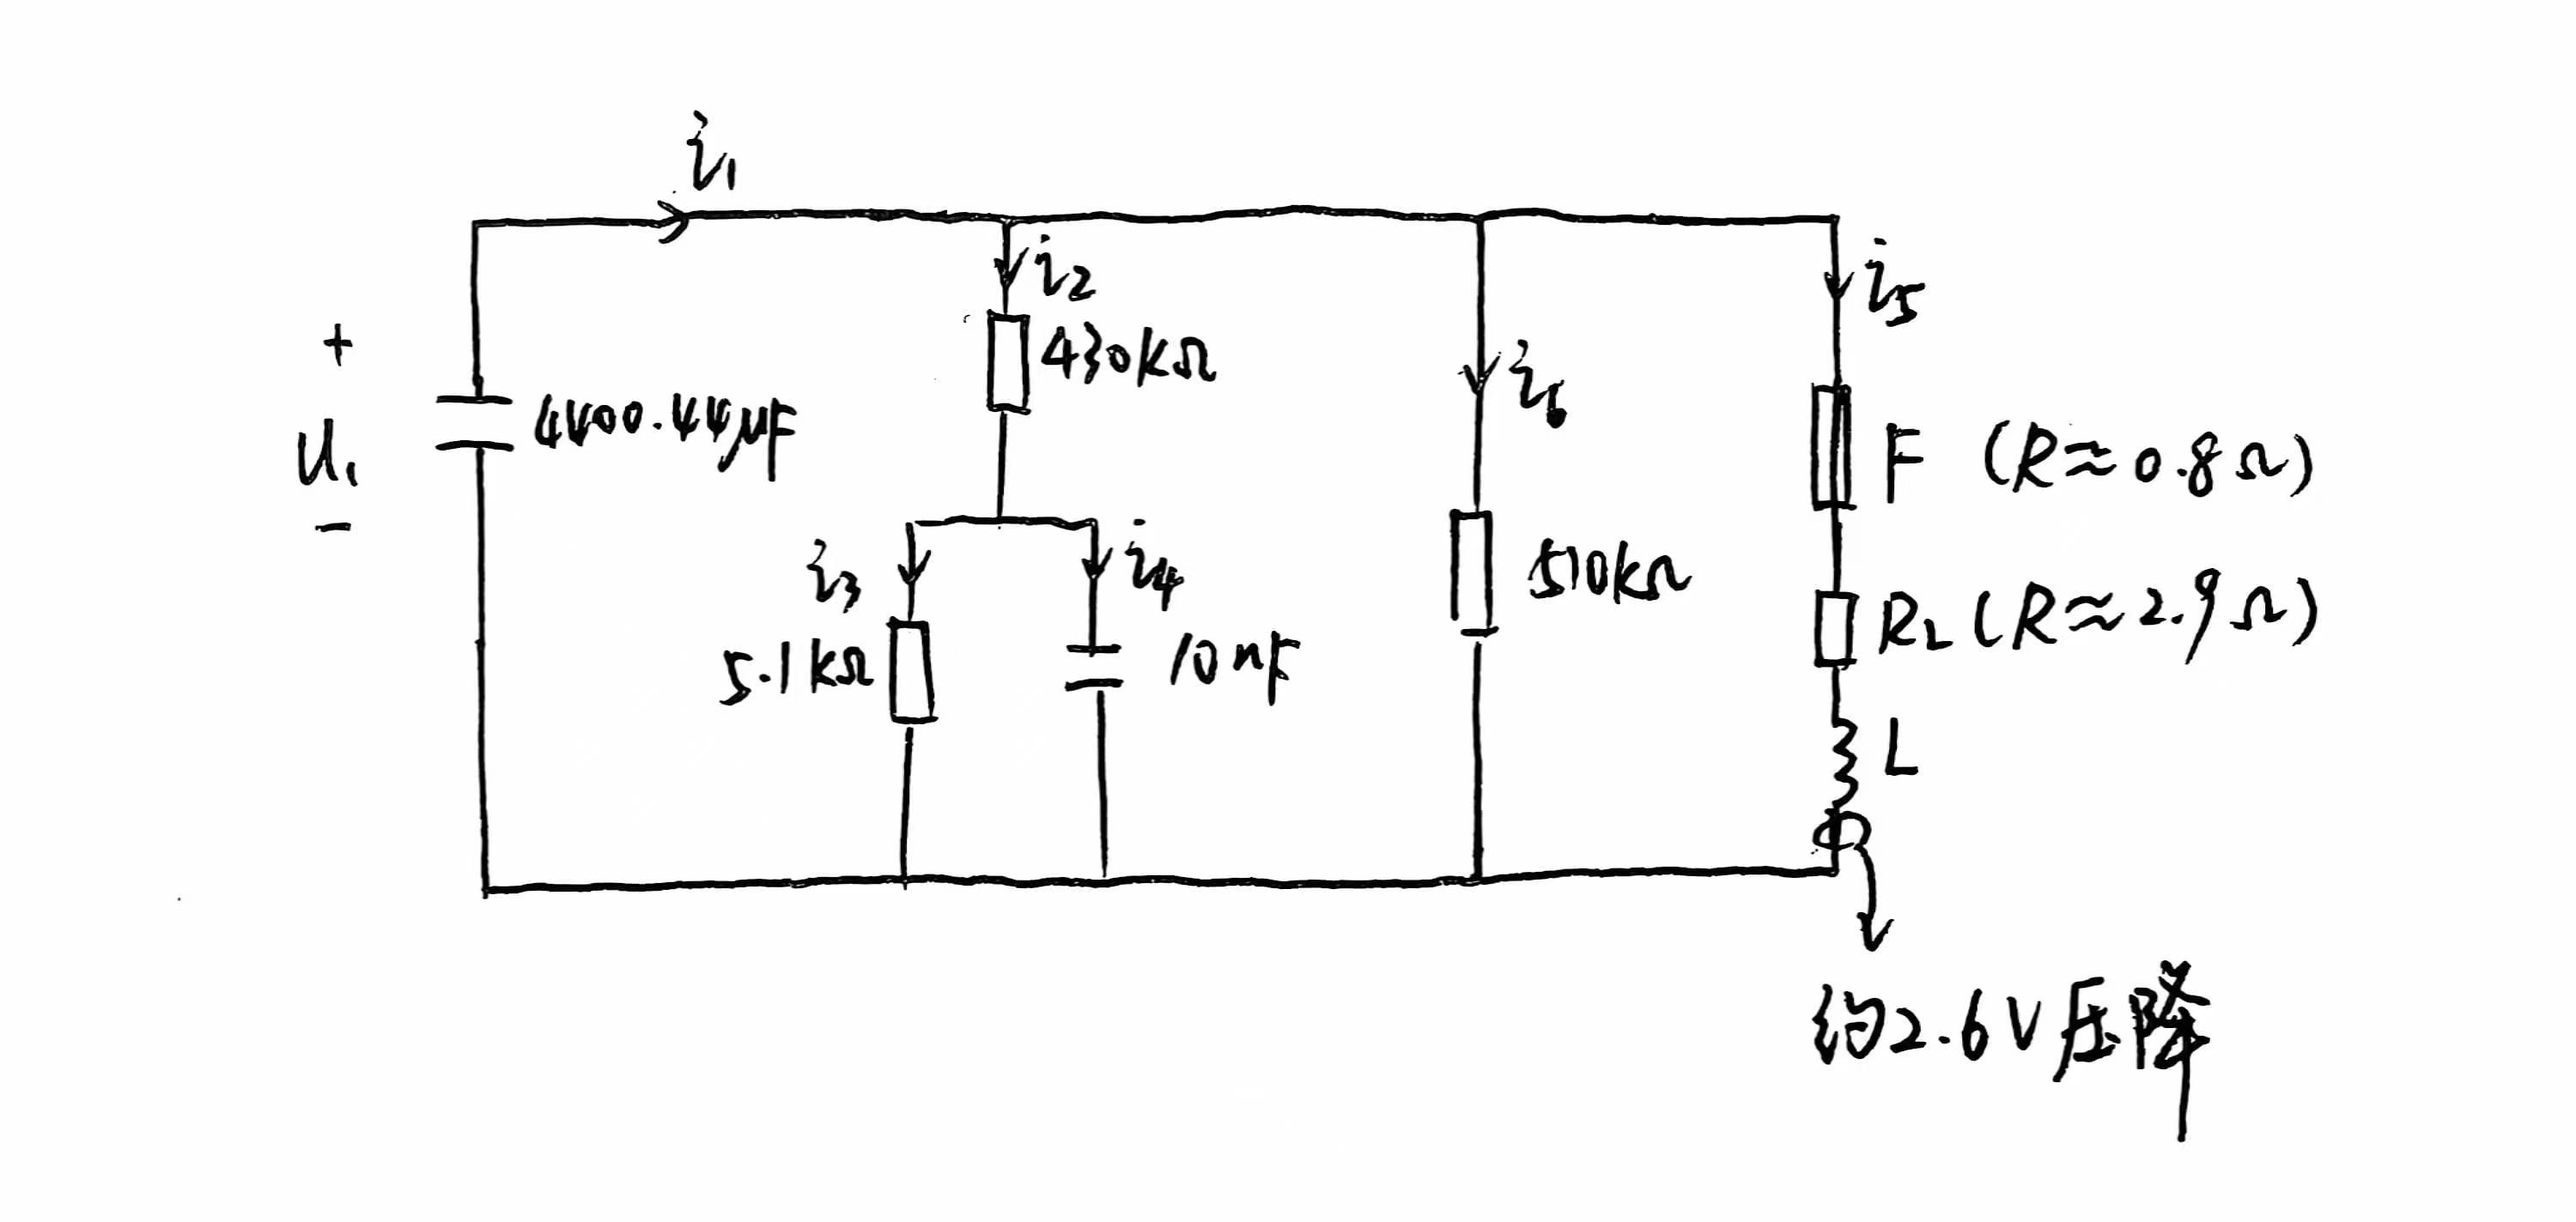
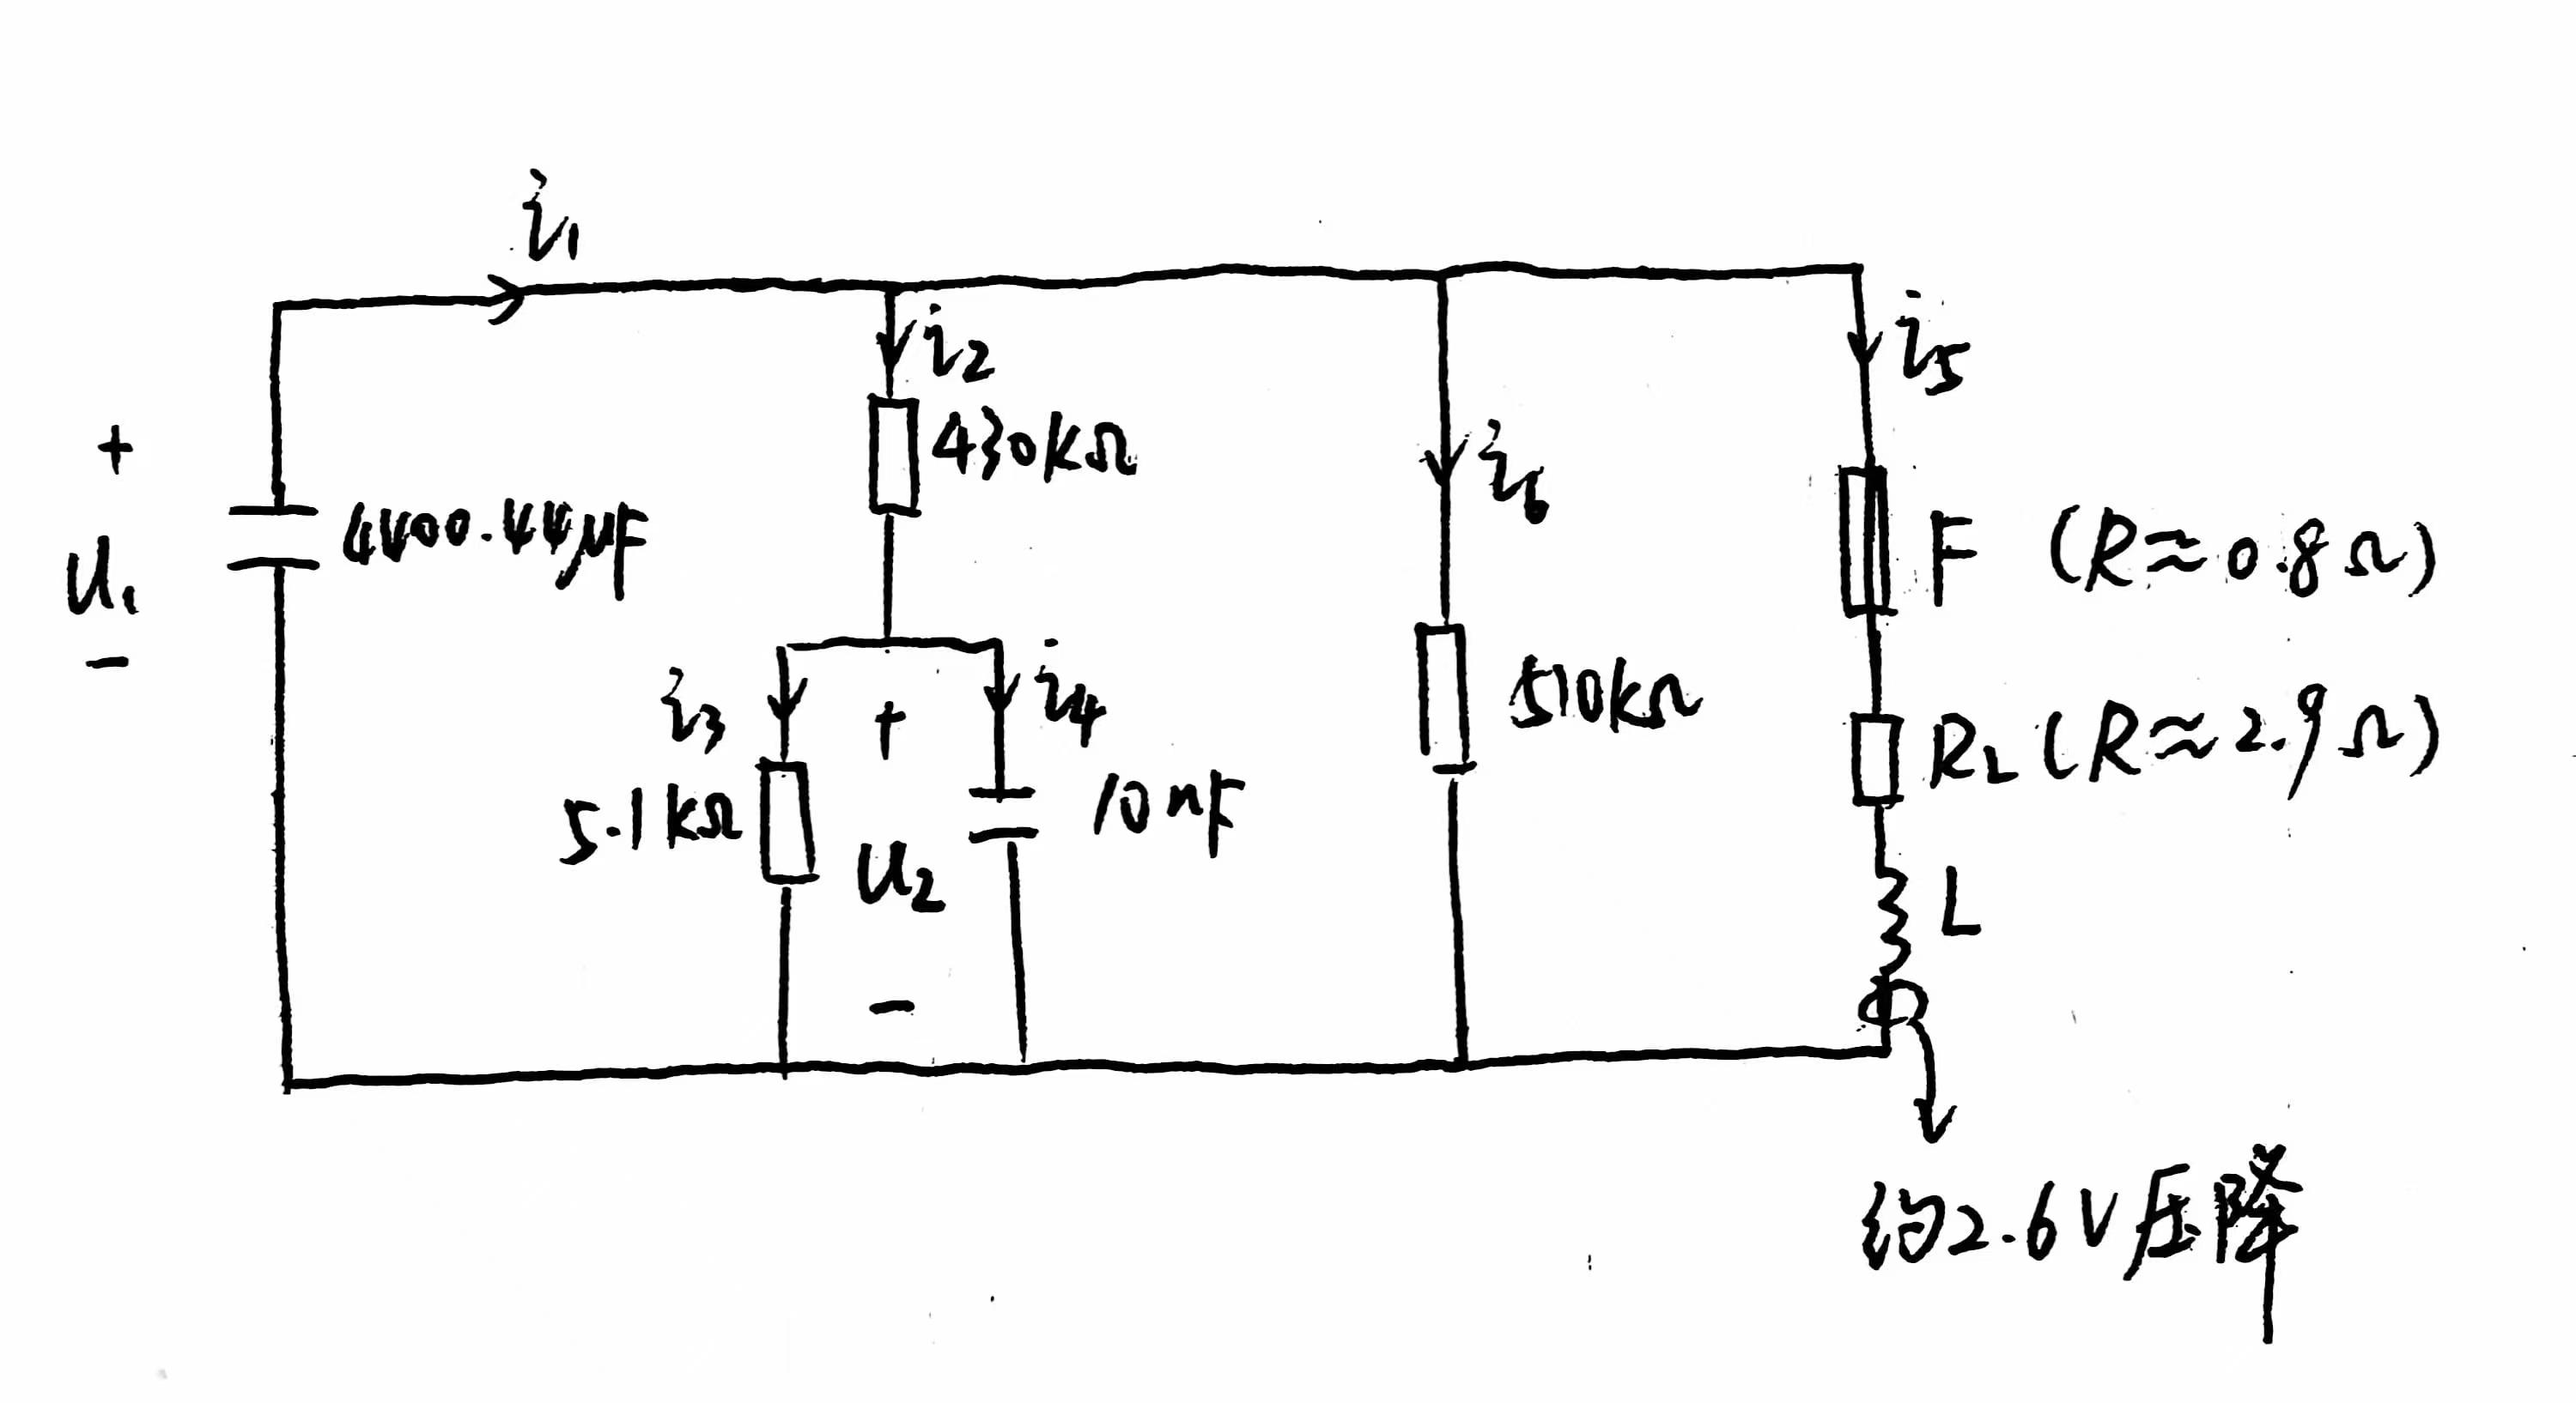
change model

diff --git a/readme.md b/readme.md
@@ -102,4 +102,20 @@
 
 ## 五、电磁铁放电的电路模型
 
-为进一步了解电磁铁放电时的工作状态，特建立以下电路模型来描述电磁铁放电时的响应：
+为进一步了解电磁铁放电时的工作状态，特建立以下电路模型来描述电磁铁放电时的响应。其中，电磁铁等效为电感模型，通过阻抗法进行测量，老电磁铁电感值为 $0.0175H$，万用表测量得其电阻为 $2.9\Omega$
+
+<div align="center">
+    <img src="https://github.com/Gnitnaux/POWBRD/blob/master/%E6%94%BE%E7%94%B5%E7%94%B5%E8%B7%AF%E6%A8%A1%E5%9E%8B.jpg?raw=true" alt="踢球电路" width="500">
+</div>
+
+可用如下微分方程描述该电路模型：
+
+$$
+\begin{cases}
+	&i_1 = -4.40044 \times 10^{-3}\ \frac{du_1}{dt}\\
+	&i_2 = i_3 + i_4\\
+    &u_2 = 5.1 \times 10^3\ i_3\\
+    &i_4 = 10^{-8}\ \frac{du_2}{dt}\\
+    &
+\end{cases}
+$$
